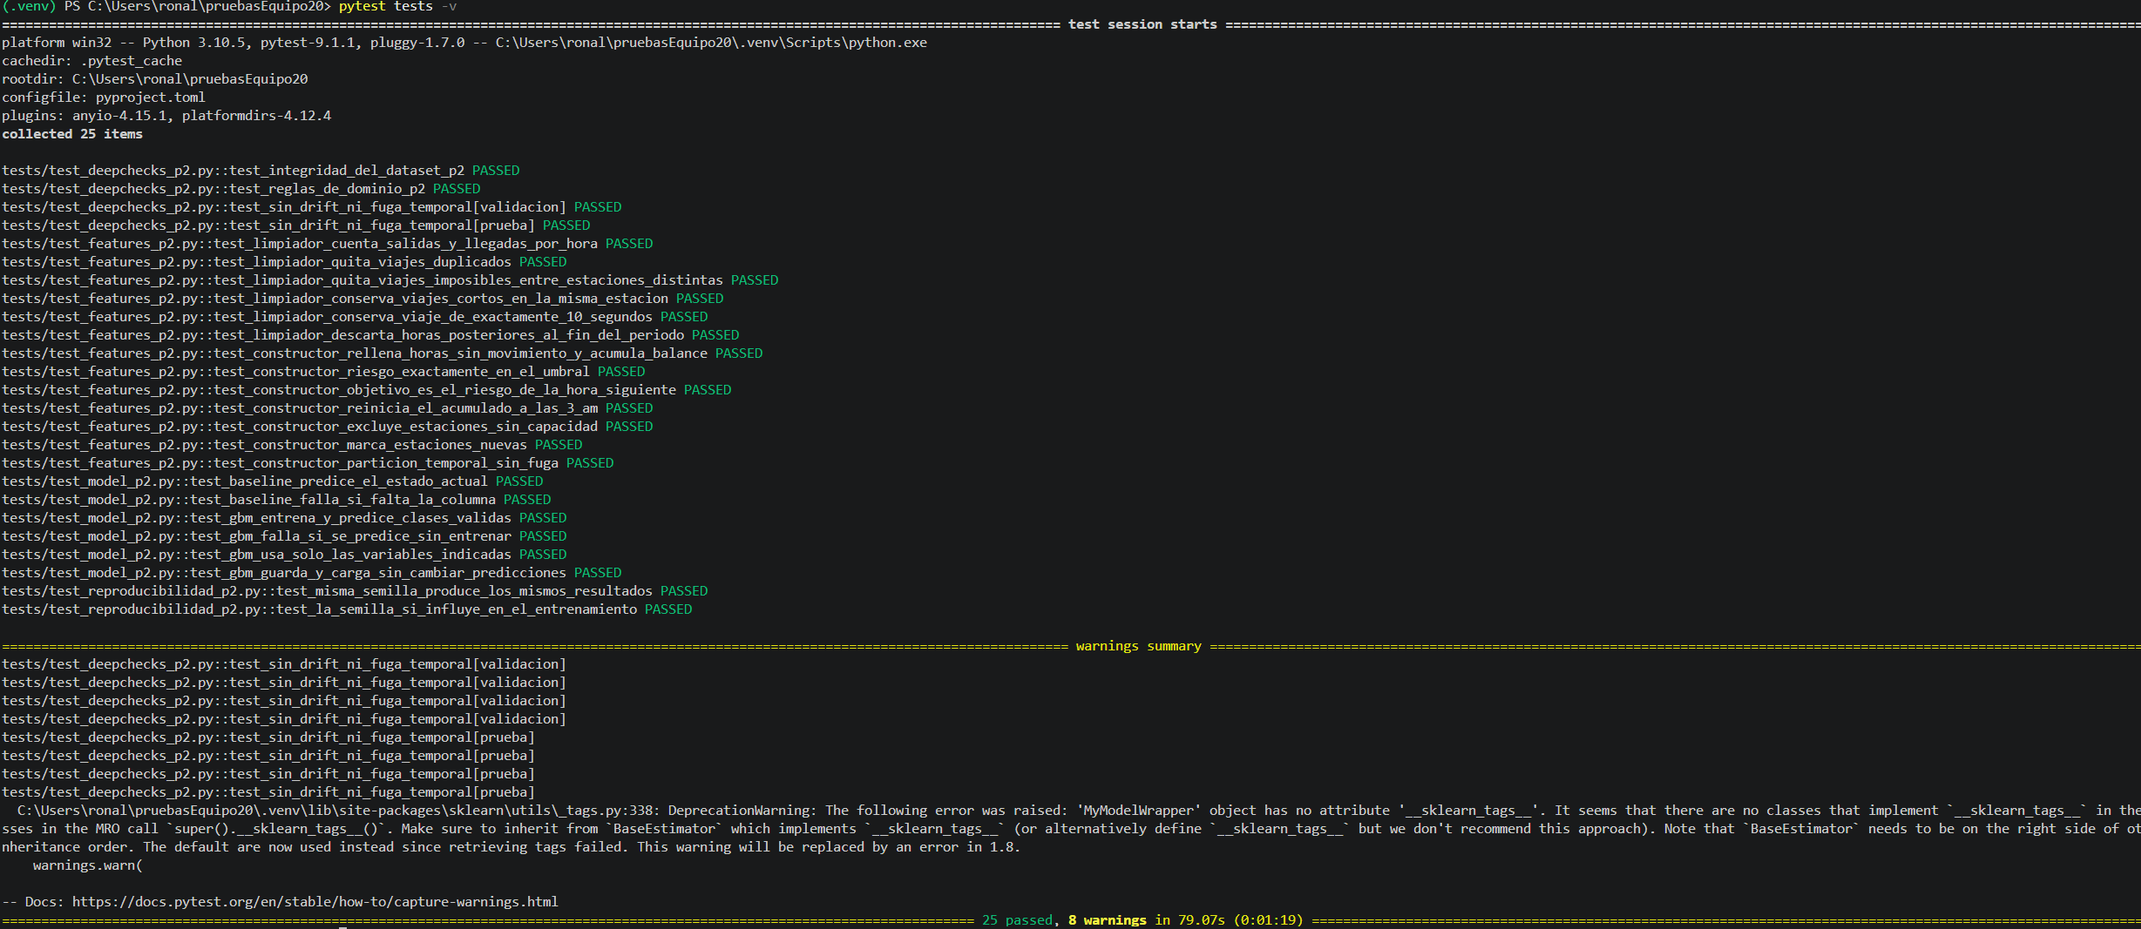
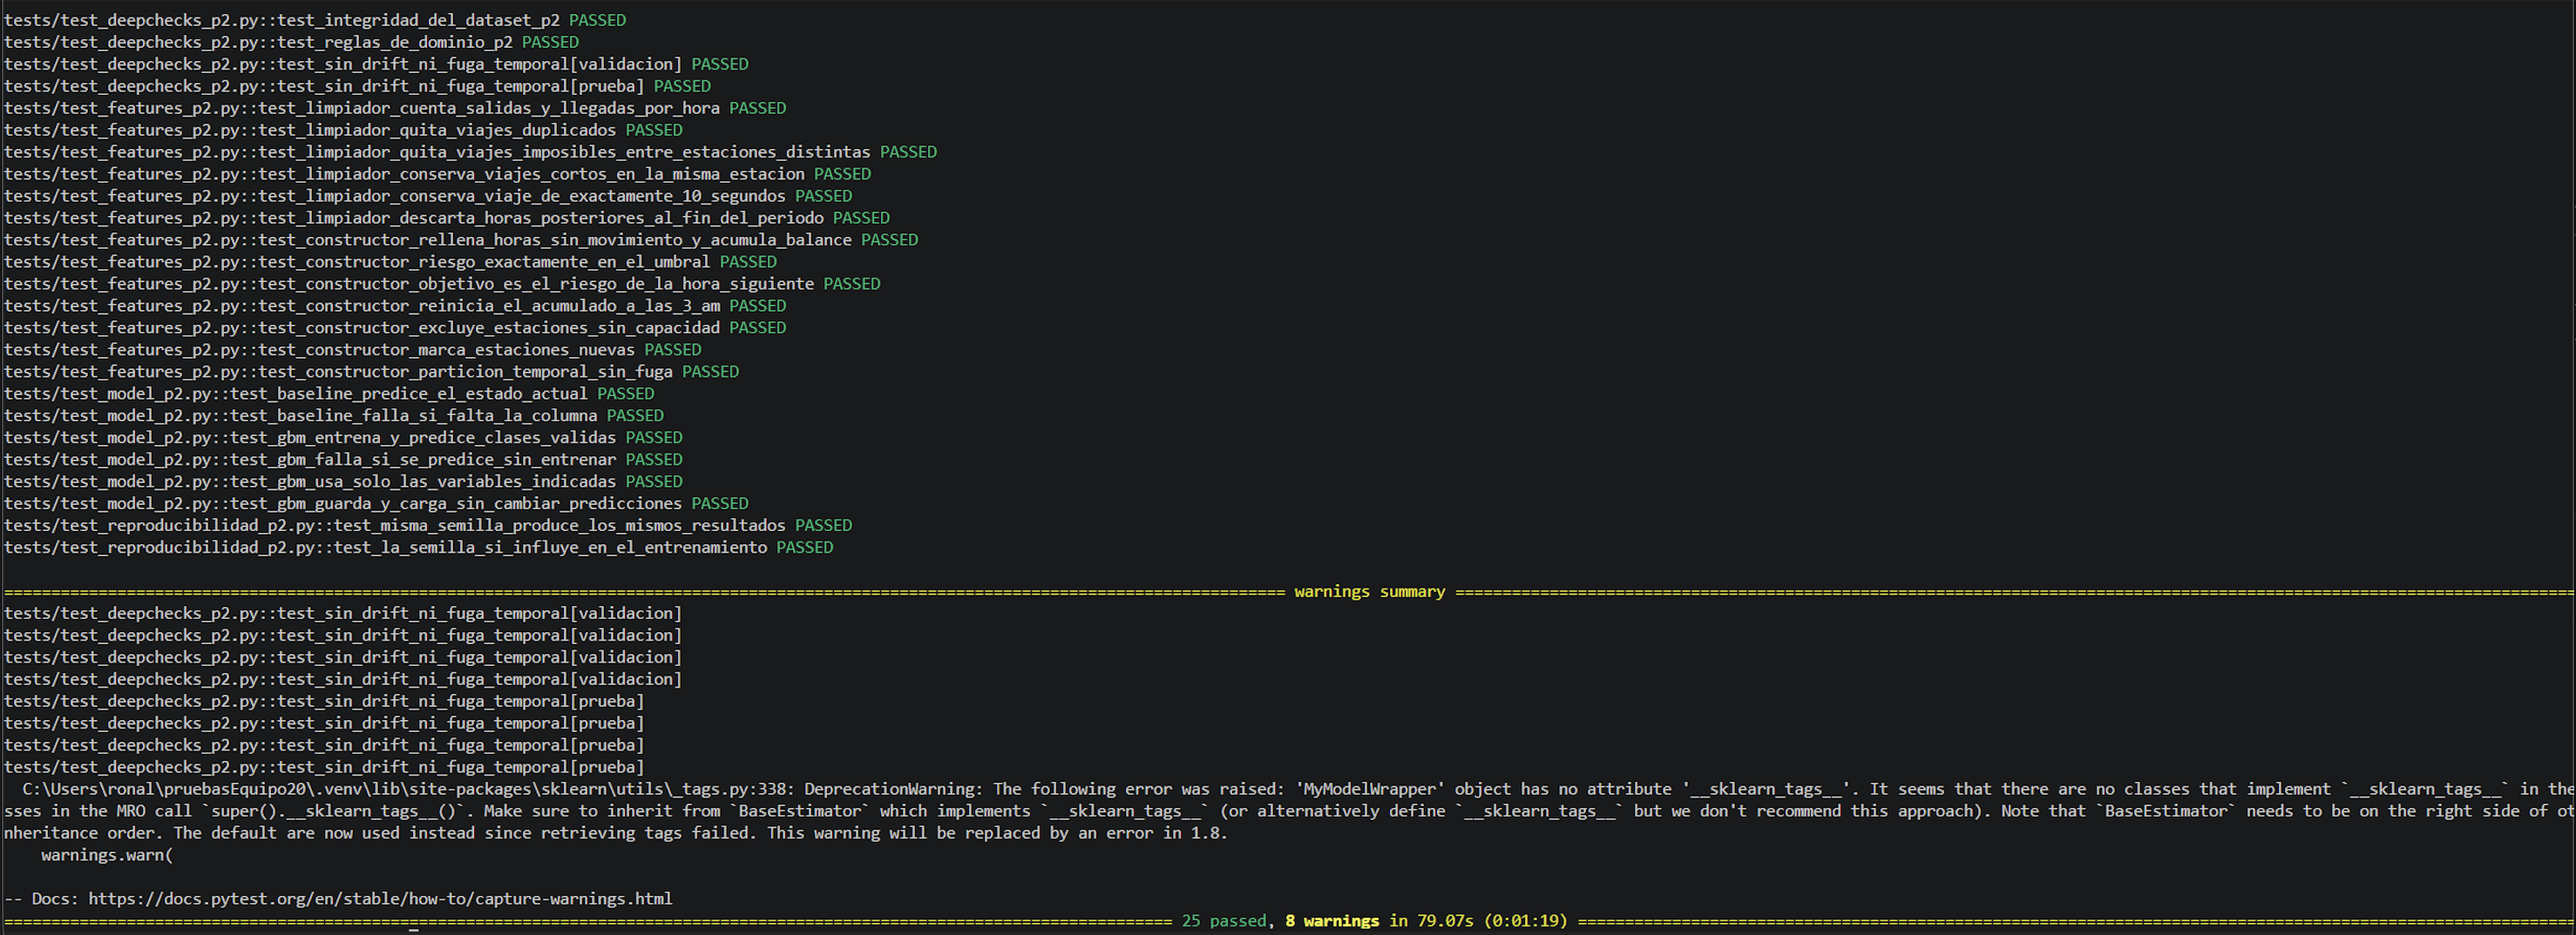
fix: agregan archivos faltantes y se quita un test incompleto

Changed region(s): [[0.0, 0.0, 1.0, 1.0], [0.4949, 0.6804, 0.5568, 0.7113]]

diff --git a/README.md b/README.md
@@ -41,10 +41,7 @@ La arquitectura del proyecto sigue la estructura estándar de **Cookiecutter Dat
 ├── references/                  <- Diccionarios de datos y manuales explicativos
 ├── reports/                     <- Tablas comparativas de métricas (.csv) y reportes generados
 │   └── figures/                 <- Gráficas exportadas para reportes
-│
 ├── tests/                       <- Suite de pruebas de integración y validación con pytest
-│   └── test_pipeline.py         <- Pruebas unitarias de artefactos, modelos y pipelines
-│
 └── proyecto_mibici/             <- Paquete principal de Python
     ├── __init__.py              <- Metadatos del módulo principal (__version__, __author__)
     ├── config.py                <- Rutas resueltas con pathlib, constantes, URLs y semillas
@@ -727,12 +724,6 @@ pytest tests/test_train_p2_p3.py -v          # métricas de clasificación y clu
 pytest tests/test_predict_p2_p3.py -v        # inferencia de riesgo y clustering (P2 y P3)
 ```
 
-> **Nota sobre `test_pipeline.py`:** esta prueba de integración verifica que existan los Parquets procesados (`data/processed/`), los modelos serializados (`models/*.pkl`) y los reportes generados (`reports/`). Si no se han generado todavía (por ejemplo, en un clon recién descargado), la prueba se **salta automáticamente** en lugar de fallar. Para ejecutarla, correr primero:
-> ```bash
-> python -m proyecto_mibici.dataset   # genera los Parquets de train y test
-> python run_train.py                 # entrena y guarda los 3 modelos
-> ```
-> y luego volver a lanzar `pytest -v`.
 
 ### Qué se prueba (P1: demanda horaria)
 
@@ -835,7 +826,7 @@ Resultado esperado: todas las pruebas en verde (PASSED) al final.
 | `test_train_p2_p3.py` | 4 pruebas aprobadas |
 | `test_predict_p2_p3.py` | 6 pruebas aprobadas |
 
-**Resultado final del suite completo:** `152 passed, 3 skipped` (39.37s).
+**Resultado final del suite completo:** `150 passed, 1 skipped` (44.82s).
 
 Todas las pruebas se ejecutan correctamente.
 
@@ -1117,14 +1108,12 @@ El suite completo de pruebas se ejecuta con un solo comando desde la raíz del r
 pytest -v
 ```
 
-**Resultado obtenido:** `152 passed, 3 skipped` (39.37s).
+**Resultado obtenido:** `150 passed, 1 skipped` (44.82s).
 
-- **152 passed**: Todas las pruebas unitarias de P1, P2 y P3, incluidas las de reproducibilidad con semilla fija, los chequeos de DeepChecks sobre datos reales (P2 y P3), los chequeos sintéticos de DeepChecks de P1, las pruebas de `dataset.py` (ETL e integridad), las pruebas de la fachada `features.py`, y las pruebas de métricas e inferencia de P2 y P3.
-- **3 skipped**: Pruebas que requieren el modelo champion (`models/p1_champion.pkl`), eliminado del entorno local; se ejecutan cuando el modelo está presente.
+- **150 passed**: Todas las pruebas unitarias de P1, P2 y P3, incluidas las de reproducibilidad con semilla fija, los chequeos de DeepChecks sobre datos reales (P2 y P3), los chequeos sintéticos de DeepChecks de P1, las pruebas de `dataset.py` (ETL e integridad), las pruebas de la fachada `features.py`, y las pruebas de métricas e inferencia de P2 y P3.
+- **1 skipped**: Prueba que requiere el modelo champion (`models/p1_champion.pkl`), eliminado del entorno local; se ejecuta cuando el modelo está presente.
 
-![Suite completo - 152 pruebas aprobadas, 3 skipped](docs/images/suite_completo.webp)
-
-> **Variante `test_pipeline.py` (entrenamiento de modelo):** esta prueba de integración verifica el entrenamiento completo de modelos y la generación de artefactos. El suite completo reporta **155 pruebas** en total; de ellas, **3 pueden saltarse** si no existe el modelo champion entrenado (`models/p1_champion.pkl`). Es una prueba de entrenamiento de modelo: valida que los modelos se entrenan, serializan y cargan correctamente.
+![Suite completo - 150 pruebas aprobadas, 1 skipped](docs/images/suite_completo.webp)
 
 Las capturas de evidencia por componente se encuentran en `docs/images/`:
 
